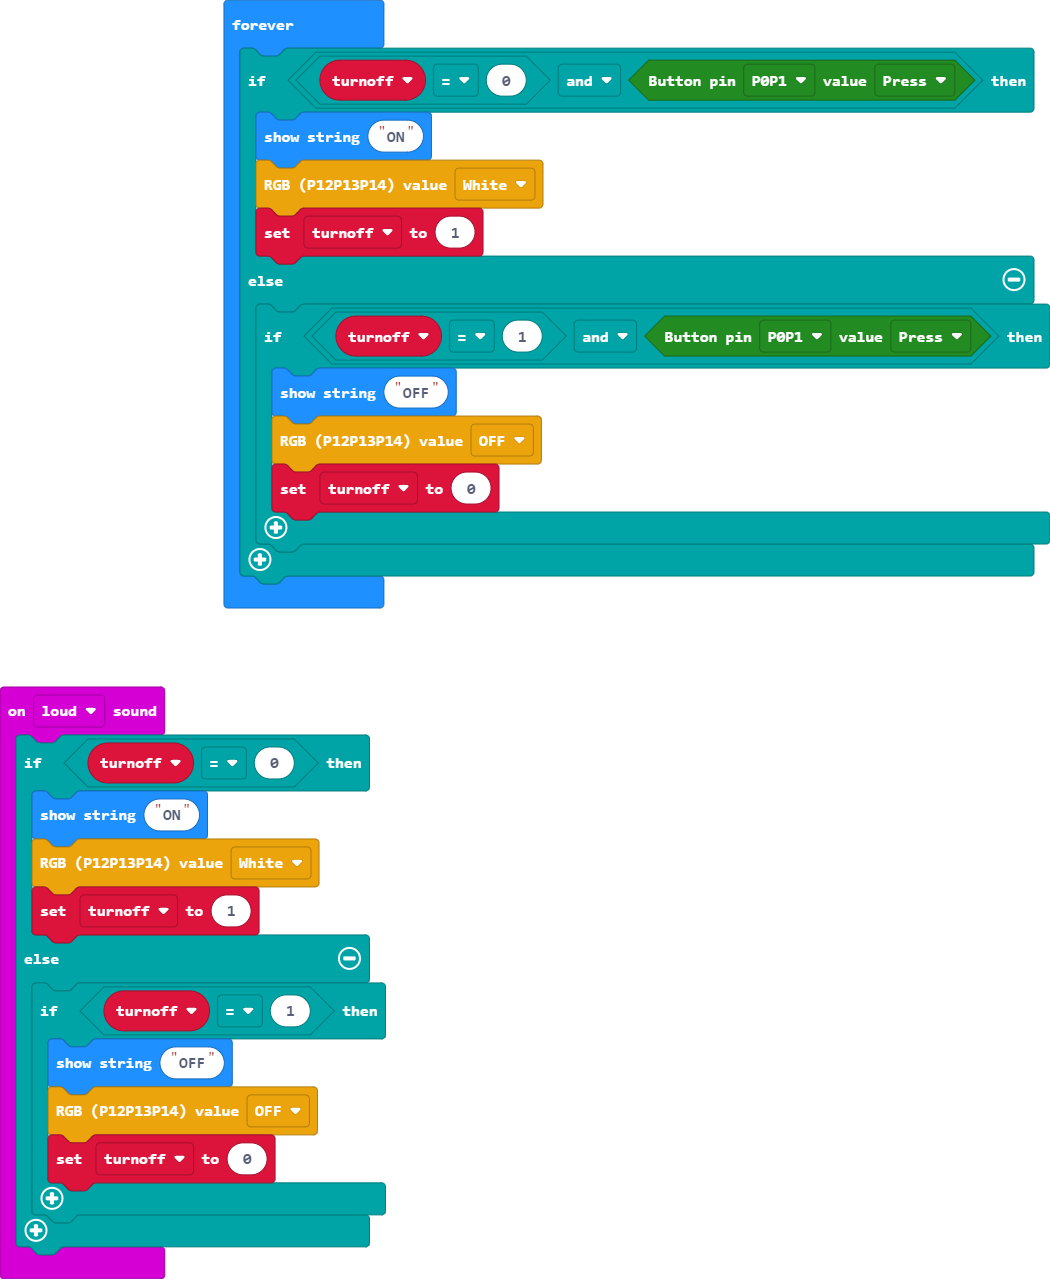
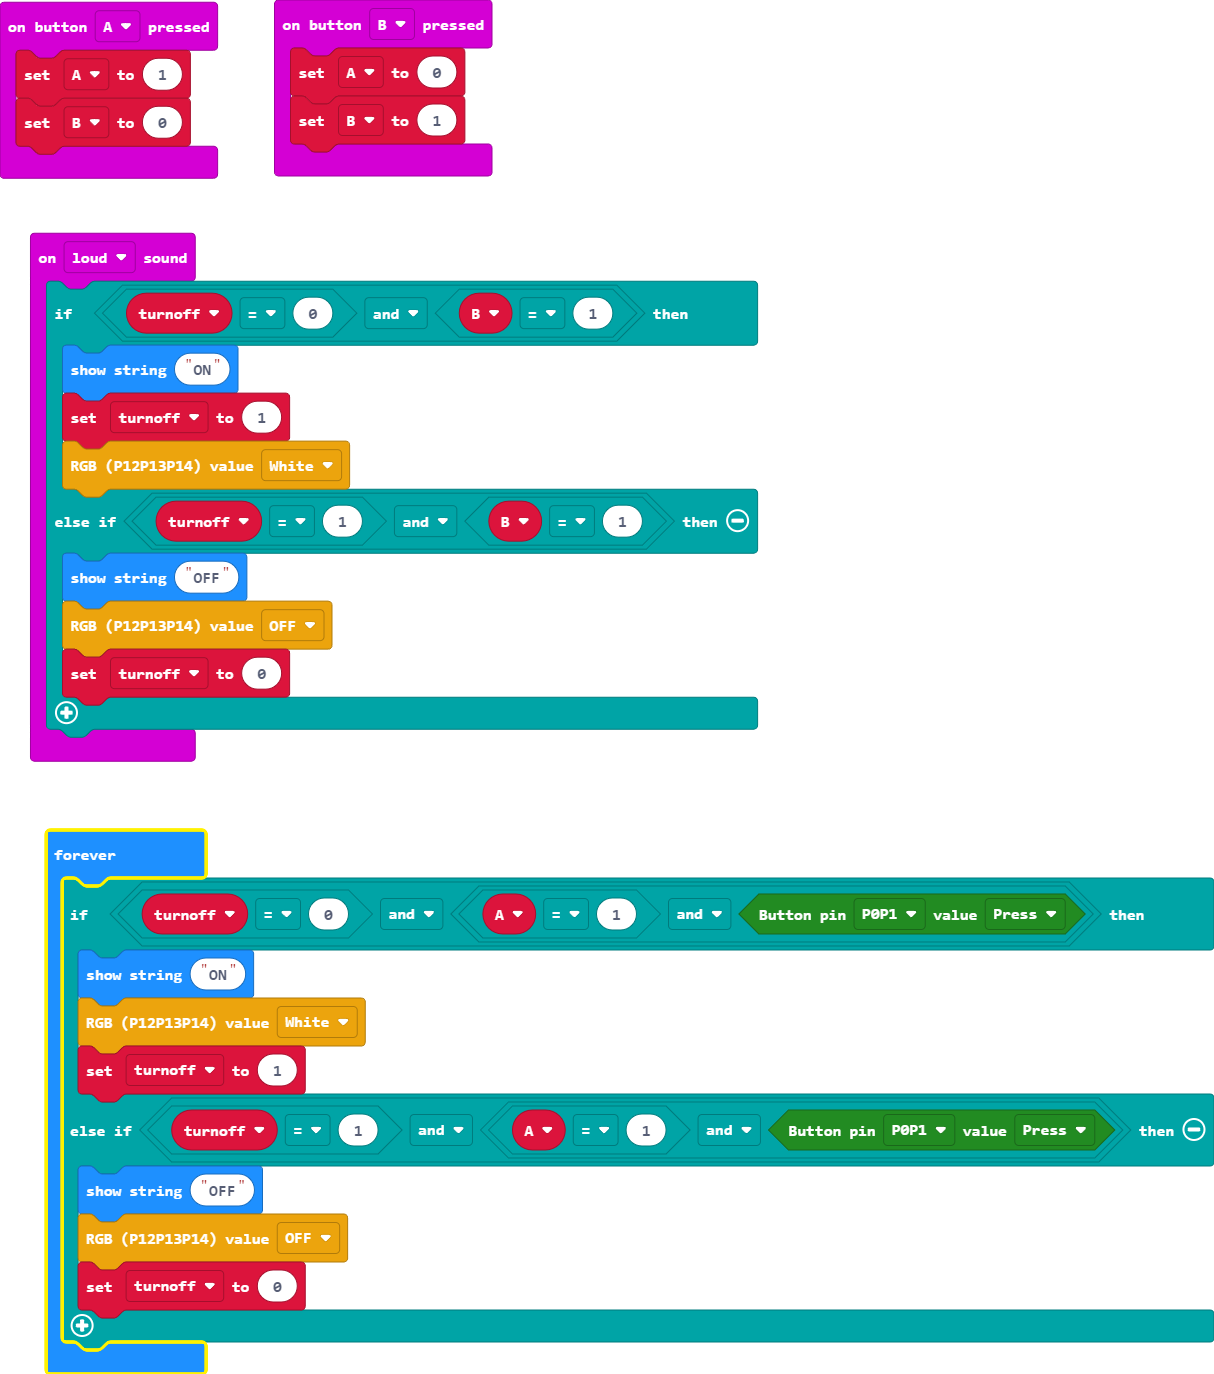
Update pxt.json, main.blocks, main.ts, main.py

diff --git a/main.ts b/main.ts
@@ -1,27 +1,33 @@
+let A = 0
+let B = 0
 let turnoff = 0
+input.onButtonPressed(Button.A, function () {
+    A = 1
+    B = 0
+})
 input.onSound(DetectedSound.Loud, function () {
-    if (turnoff == 0) {
+    if (turnoff == 0 && B == 1) {
         basic.showString("ON")
-        ModuleWorld_PWM.RGB2(ModuleWorld_PWM.enColor.White)
         turnoff = 1
-    } else {
-        if (turnoff == 1) {
-            basic.showString("OFF")
-            ModuleWorld_PWM.RGB2(ModuleWorld_PWM.enColor.OFF)
-            turnoff = 0
-        }
+        ModuleWorld_PWM.RGB2(ModuleWorld_PWM.enColor.White)
+    } else if (turnoff == 1 && B == 1) {
+        basic.showString("OFF")
+        ModuleWorld_PWM.RGB2(ModuleWorld_PWM.enColor.OFF)
+        turnoff = 0
     }
 })
+input.onButtonPressed(Button.B, function () {
+    A = 0
+    B = 1
+})
 basic.forever(function () {
-    if (turnoff == 0 && ModuleWorld_Digital.Button(ModuleWorld_Digital.mwDigitalNum.P0P1, ModuleWorld_Digital.enButton.Press)) {
+    if (turnoff == 0 && (A == 1 && ModuleWorld_Digital.Button(ModuleWorld_Digital.mwDigitalNum.P0P1, ModuleWorld_Digital.enButton.Press))) {
         basic.showString("ON")
         ModuleWorld_PWM.RGB2(ModuleWorld_PWM.enColor.White)
         turnoff = 1
-    } else {
-        if (turnoff == 1 && ModuleWorld_Digital.Button(ModuleWorld_Digital.mwDigitalNum.P0P1, ModuleWorld_Digital.enButton.Press)) {
-            basic.showString("OFF")
-            ModuleWorld_PWM.RGB2(ModuleWorld_PWM.enColor.OFF)
-            turnoff = 0
-        }
+    } else if (turnoff == 1 && (A == 1 && ModuleWorld_Digital.Button(ModuleWorld_Digital.mwDigitalNum.P0P1, ModuleWorld_Digital.enButton.Press))) {
+        basic.showString("OFF")
+        ModuleWorld_PWM.RGB2(ModuleWorld_PWM.enColor.OFF)
+        turnoff = 0
     }
 })

diff --git a/main.py b/main.py
@@ -1,5 +1,18 @@
 turnoff = 0
 
+def on_sound_loud():
+    global turnoff
+    if turnoff == 0:
+        basic.show_string("ON")
+        ModuleWorld_PWM.RGB2(ModuleWorld_PWM.enColor.WHITE)
+        turnoff = 1
+    else:
+        if turnoff == 1:
+            basic.show_string("OFF")
+            ModuleWorld_PWM.RGB2(ModuleWorld_PWM.enColor.OFF)
+            turnoff = 0
+input.on_sound(DetectedSound.LOUD, on_sound_loud)
+
 def on_forever():
     global turnoff
     if turnoff == 0 and ModuleWorld_Digital.button(ModuleWorld_Digital.mwDigitalNum.P0P1,
